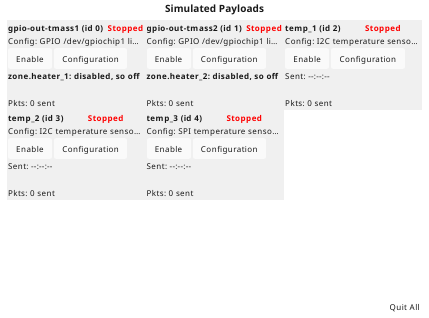
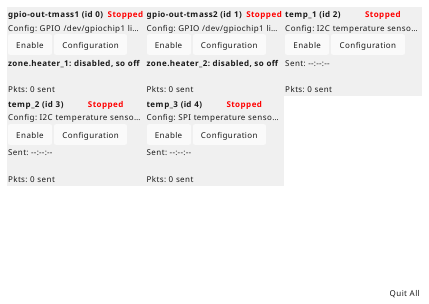
tcs-sim: drop the "Simulated Payloads" heading
The window is the panels and, where there is one, the lander's pane,
which say what they are; the heading took a line from both. The chrome
is 21 pixels shorter, which the fixture, the design document's window
size and the opening screenshot follow.

diff --git a/docs/tcs-sim.html b/docs/tcs-sim.html
@@ -1323,7 +1323,7 @@ window, drawn without opening it.</p>
 <p><strong>Enabling a sensor</strong></p>
 <ol class="arabic">
 <li><div class="first figure">
-<img alt="The tcs-sim window on the thermostat example: the heading Simulated Payloads, two rows of panels -- gpio-out-tmass1, gpio-out-tmass2 and temp_1, then temp_2 and temp_3 -- each Stopped, with an Enable button, and Quit All at the foot." src="shots/tcs-sim-open.png" />
+<img alt="The tcs-sim window on the thermostat example: two rows of panels -- gpio-out-tmass1, gpio-out-tmass2 and temp_1, then temp_2 and temp_3 -- each Stopped, with an Enable button, and Quit All at the foot." src="shots/tcs-sim-open.png" />
 <p class="caption">The window as it opens. Every payload is <tt class="docutils literal">Stopped</tt> -- its simulated
 device is made, so tcspecial finds it, but nothing goes over it -- and
 each panel offers <tt class="docutils literal">Enable</tt>. The heater switches' first line says what

diff --git a/docs/tcs-sim-design.html b/docs/tcs-sim-design.html
@@ -1763,7 +1763,7 @@ that many panels' width plus the chrome, the window arrives at the same count.</
 <p>A panel is as wide as the widest of the window's payloads wants: its heading,
 the payload's name and number, is the one line it does not end with an
 ellipsis. With panels at their narrowest, as wide as their buttons, four
-payloads give a row of three and a row of one in a 584x483 window; their names
+payloads give a row of three and a row of one in a 584x462 window; their names
 make it wider. The size is the one <tt class="docutils literal">window_size</tt> gives, which a test reads out
 of this document so that the number here cannot quietly stop being the one the
 program opens at.</p>

diff --git a/tcs-sim/src/grid.rs b/tcs-sim/src/grid.rs
@@ -111,7 +111,7 @@ impl Sizes {
             panel_width: 188.0,
             panel_height: 136.0,
             chrome_width: 20.0,
-            chrome_height: 75.0,
+            chrome_height: 54.0,
         }
     }
 }
@@ -282,10 +282,10 @@ mod tests {
         let shape = grid_shape(&sizes(), 4);
         assert_eq!((shape.columns, shape.rows), (3, 2));
         // Three panels across and two rows down, plus the chrome: 3 x 188 + 20
-        // and 2 x 136 + 75. Written out rather than computed from the fixture,
+        // and 2 x 136 + 54. Written out rather than computed from the fixture,
         // so that a change to a panel's size has to be looked at here rather
         // than silently agreeing with itself.
-        assert_eq!((shape.width, shape.height), (584.0, 347.0));
+        assert_eq!((shape.width, shape.height), (584.0, 326.0));
     }
 
     /// A row is filled before another is started under it, three across.

diff --git a/docs/tcs-sim-design.rst b/docs/tcs-sim-design.rst
@@ -1447,7 +1447,7 @@ that many panels' width plus the chrome, the window arrives at the same count.
 A panel is as wide as the widest of the window's payloads wants: its heading,
 the payload's name and number, is the one line it does not end with an
 ellipsis. With panels at their narrowest, as wide as their buttons, four
-payloads give a row of three and a row of one in a 584x483 window; their names
+payloads give a row of three and a row of one in a 584x462 window; their names
 make it wider. The size is the one ``window_size`` gives, which a test reads out
 of this document so that the number here cannot quietly stop being the one the
 program opens at.

diff --git a/docs/tcs-sim.rst b/docs/tcs-sim.rst
@@ -1041,8 +1041,8 @@ window, drawn without opening it.
 **Enabling a sensor**
 
 #. .. figure:: shots/tcs-sim-open.png
-      :alt: The tcs-sim window on the thermostat example: the heading
-            Simulated Payloads, two rows of panels -- gpio-out-tmass1,
+      :alt: The tcs-sim window on the thermostat example: two rows of
+            panels -- gpio-out-tmass1,
             gpio-out-tmass2 and temp_1, then temp_2 and temp_3 -- each
             Stopped, with an Enable button, and Quit All at the foot.
 
